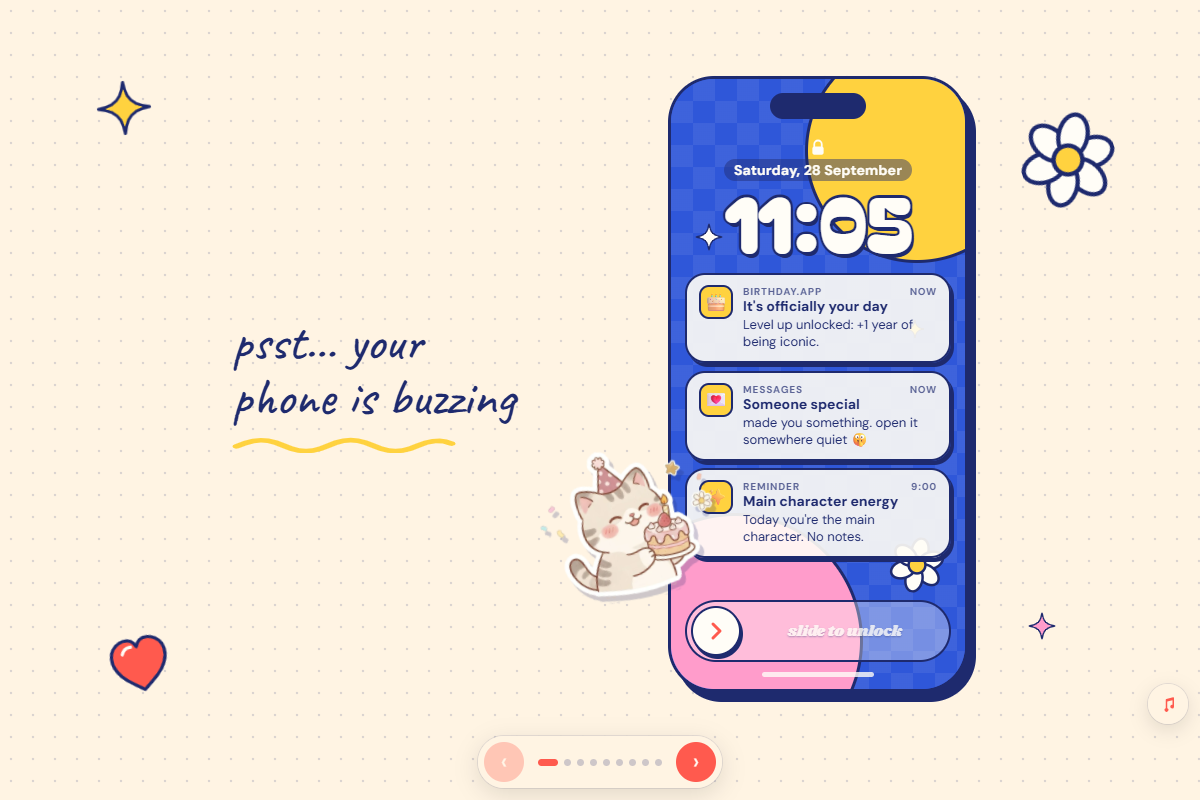
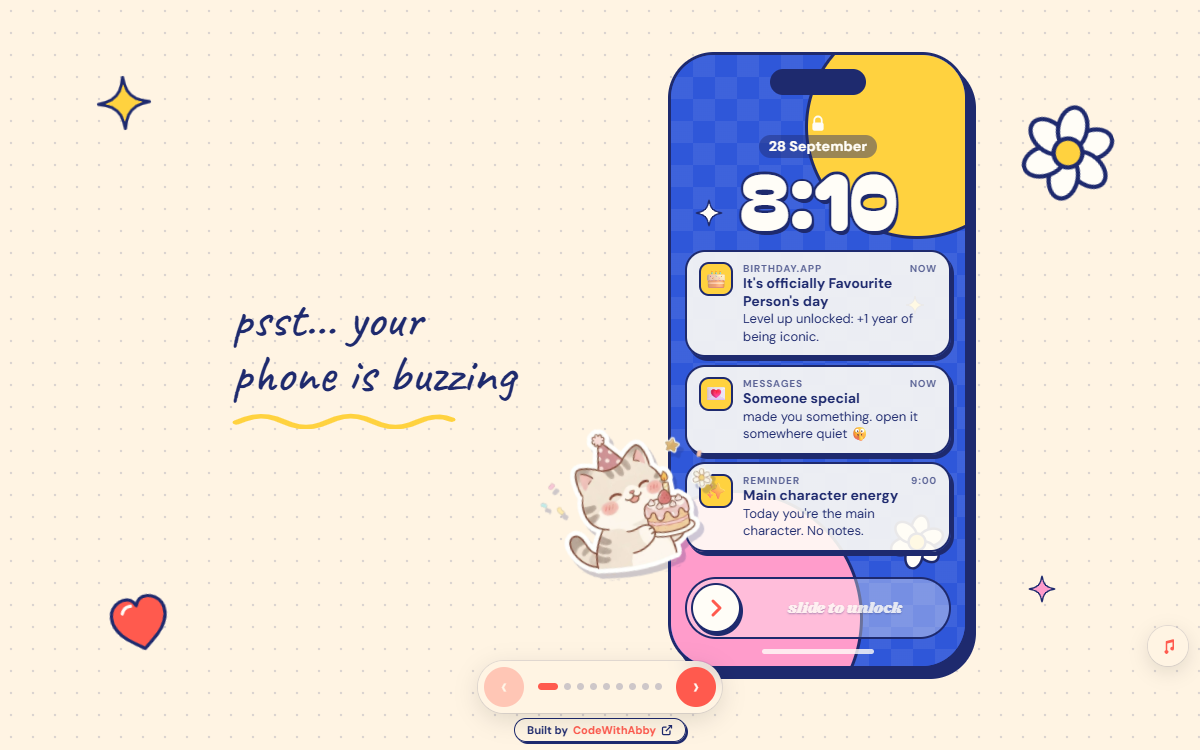
feat: fix birthday template demo link and capture authentic birthday cover photo

diff --git a/src/data/templates.ts b/src/data/templates.ts
@@ -44,7 +44,7 @@ export const templates: WebsiteTemplate[] = [
     ],
     previewImage: "/images/templates/birthday-wish.png",
     badge: "Trending • ₹99",
-    demoUrl: "https://blissful-fermi-sigma.vercel.app/p/6qawdet4",
+    demoUrl: "https://blissful-fermi-sigma.vercel.app/birthday-wish-template/index.html",
     demoNotice: "Preview Mode — Test the live interactive cake, wrapped stats, and animations. When you order, all names, stats, photos, and letters are personalized for your birthday star.",
     customizationFields: {
       senderName: true,
